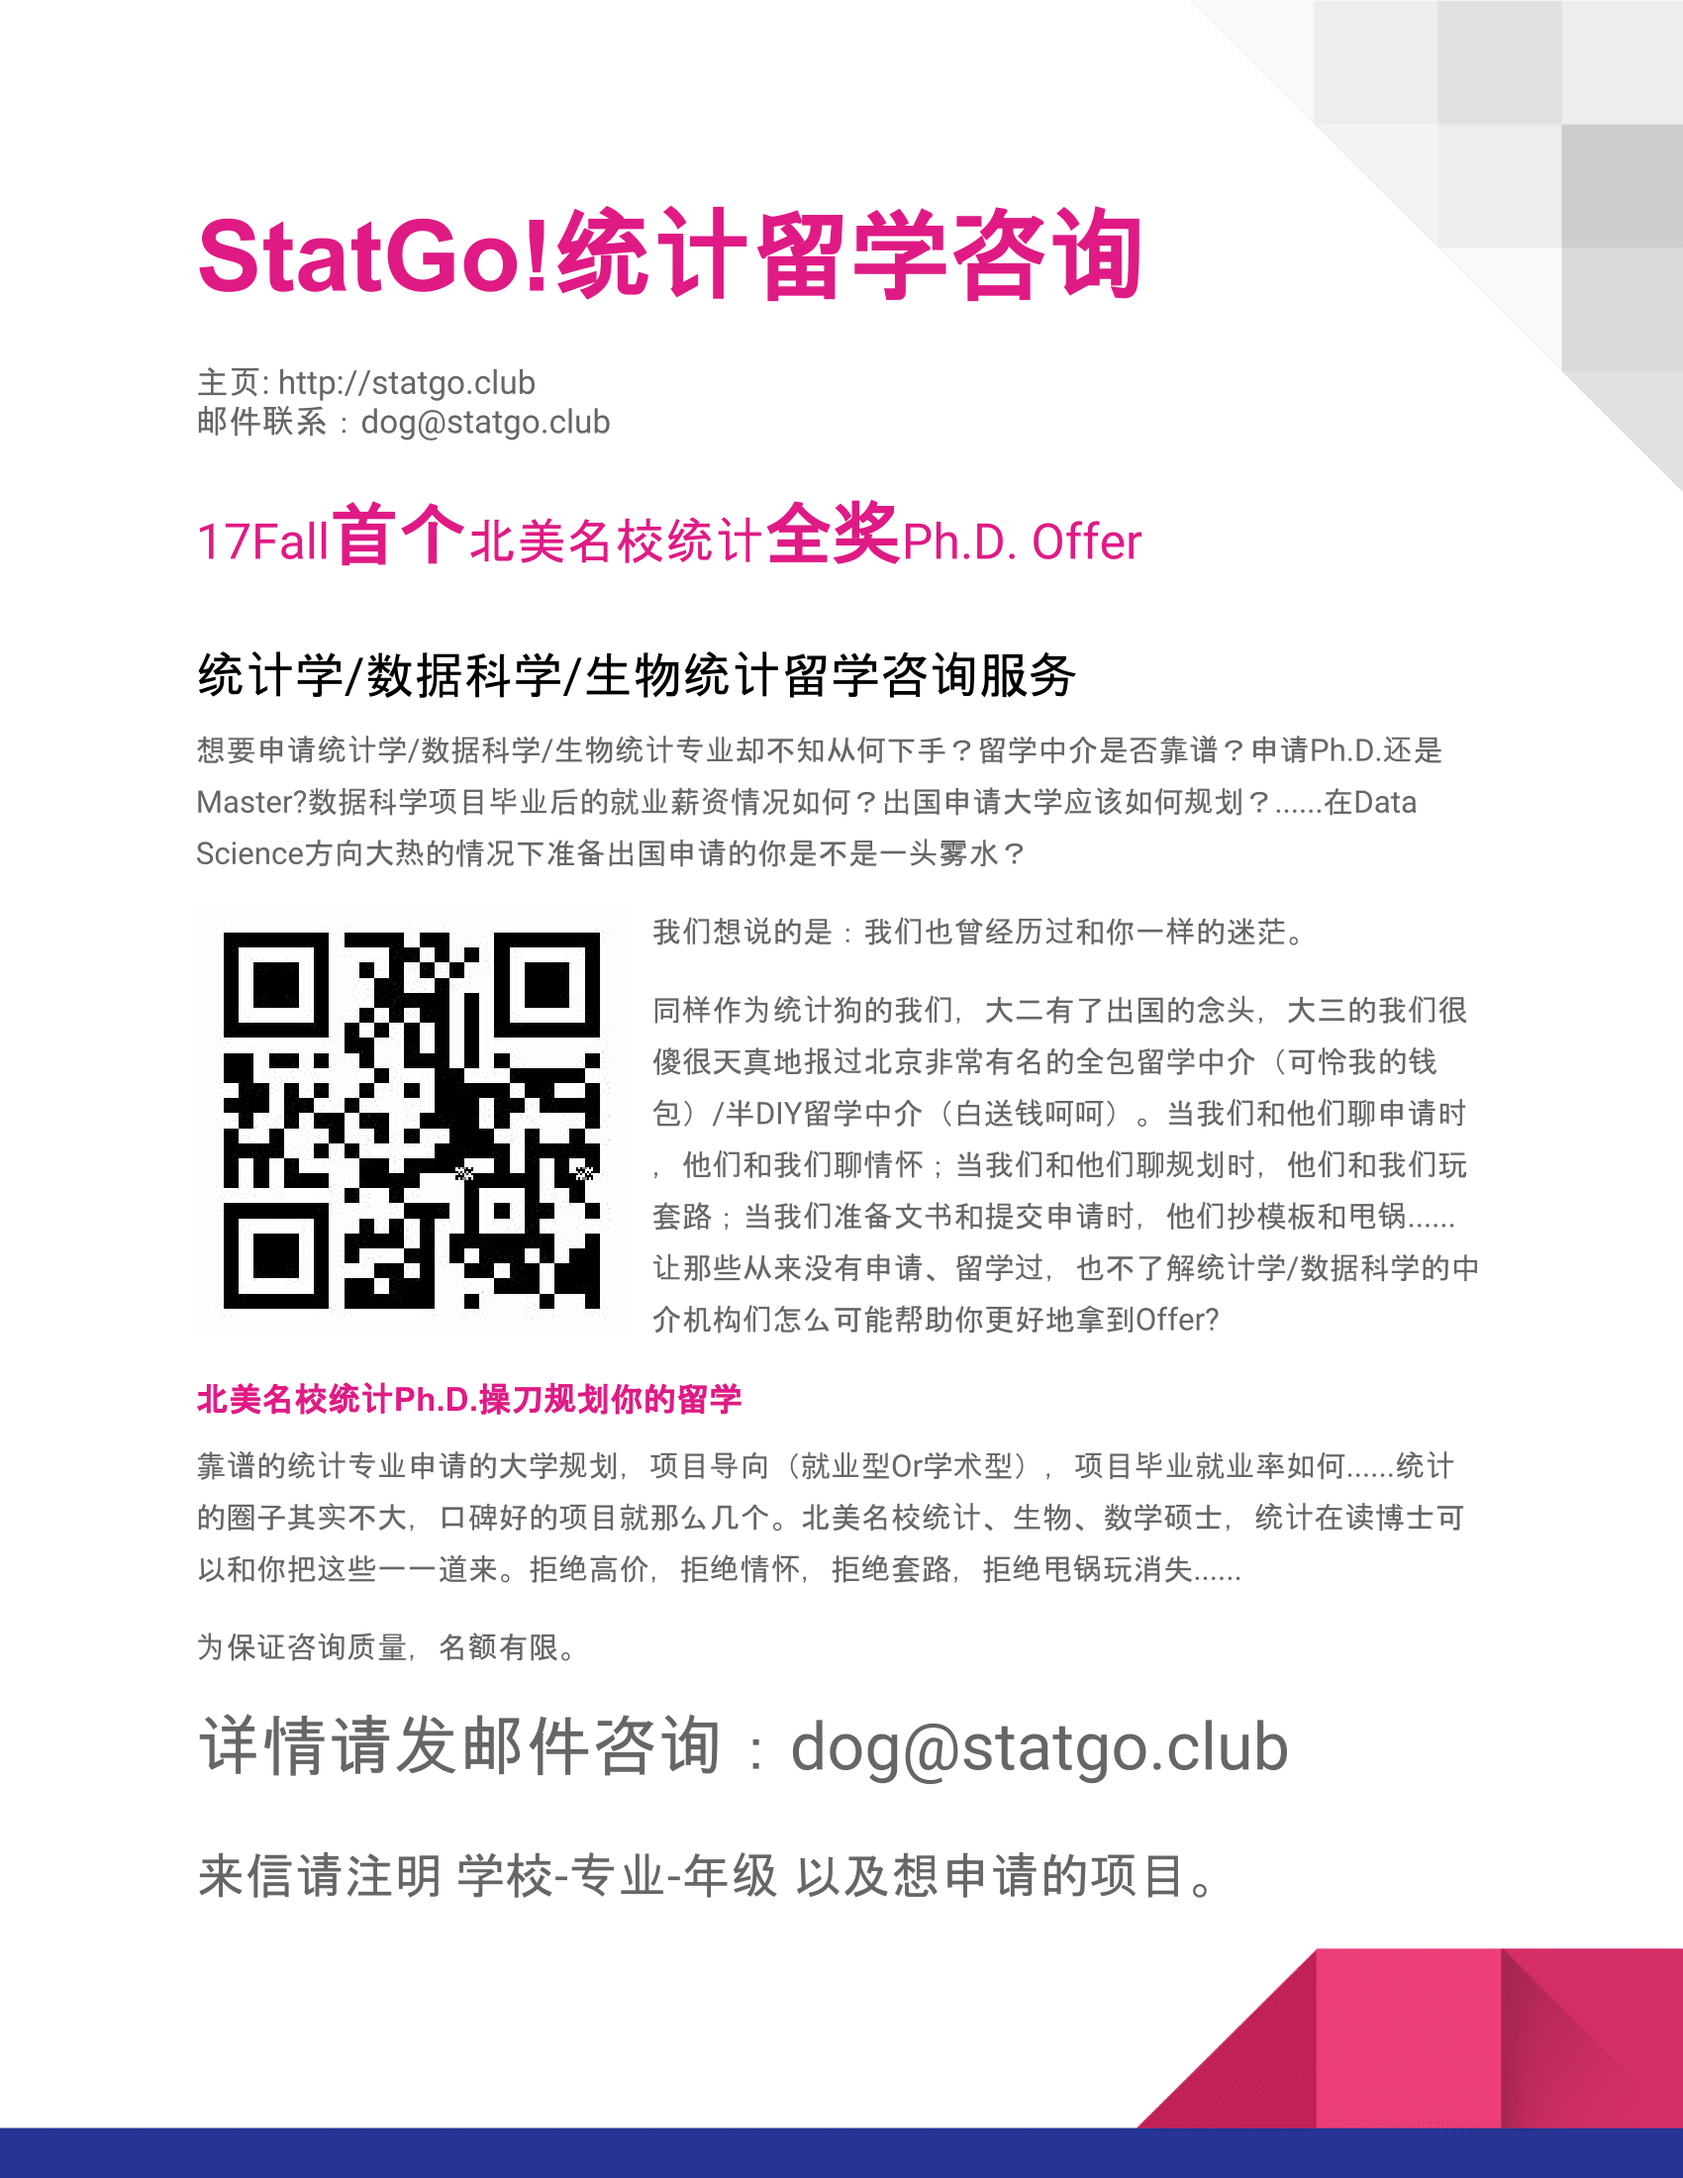
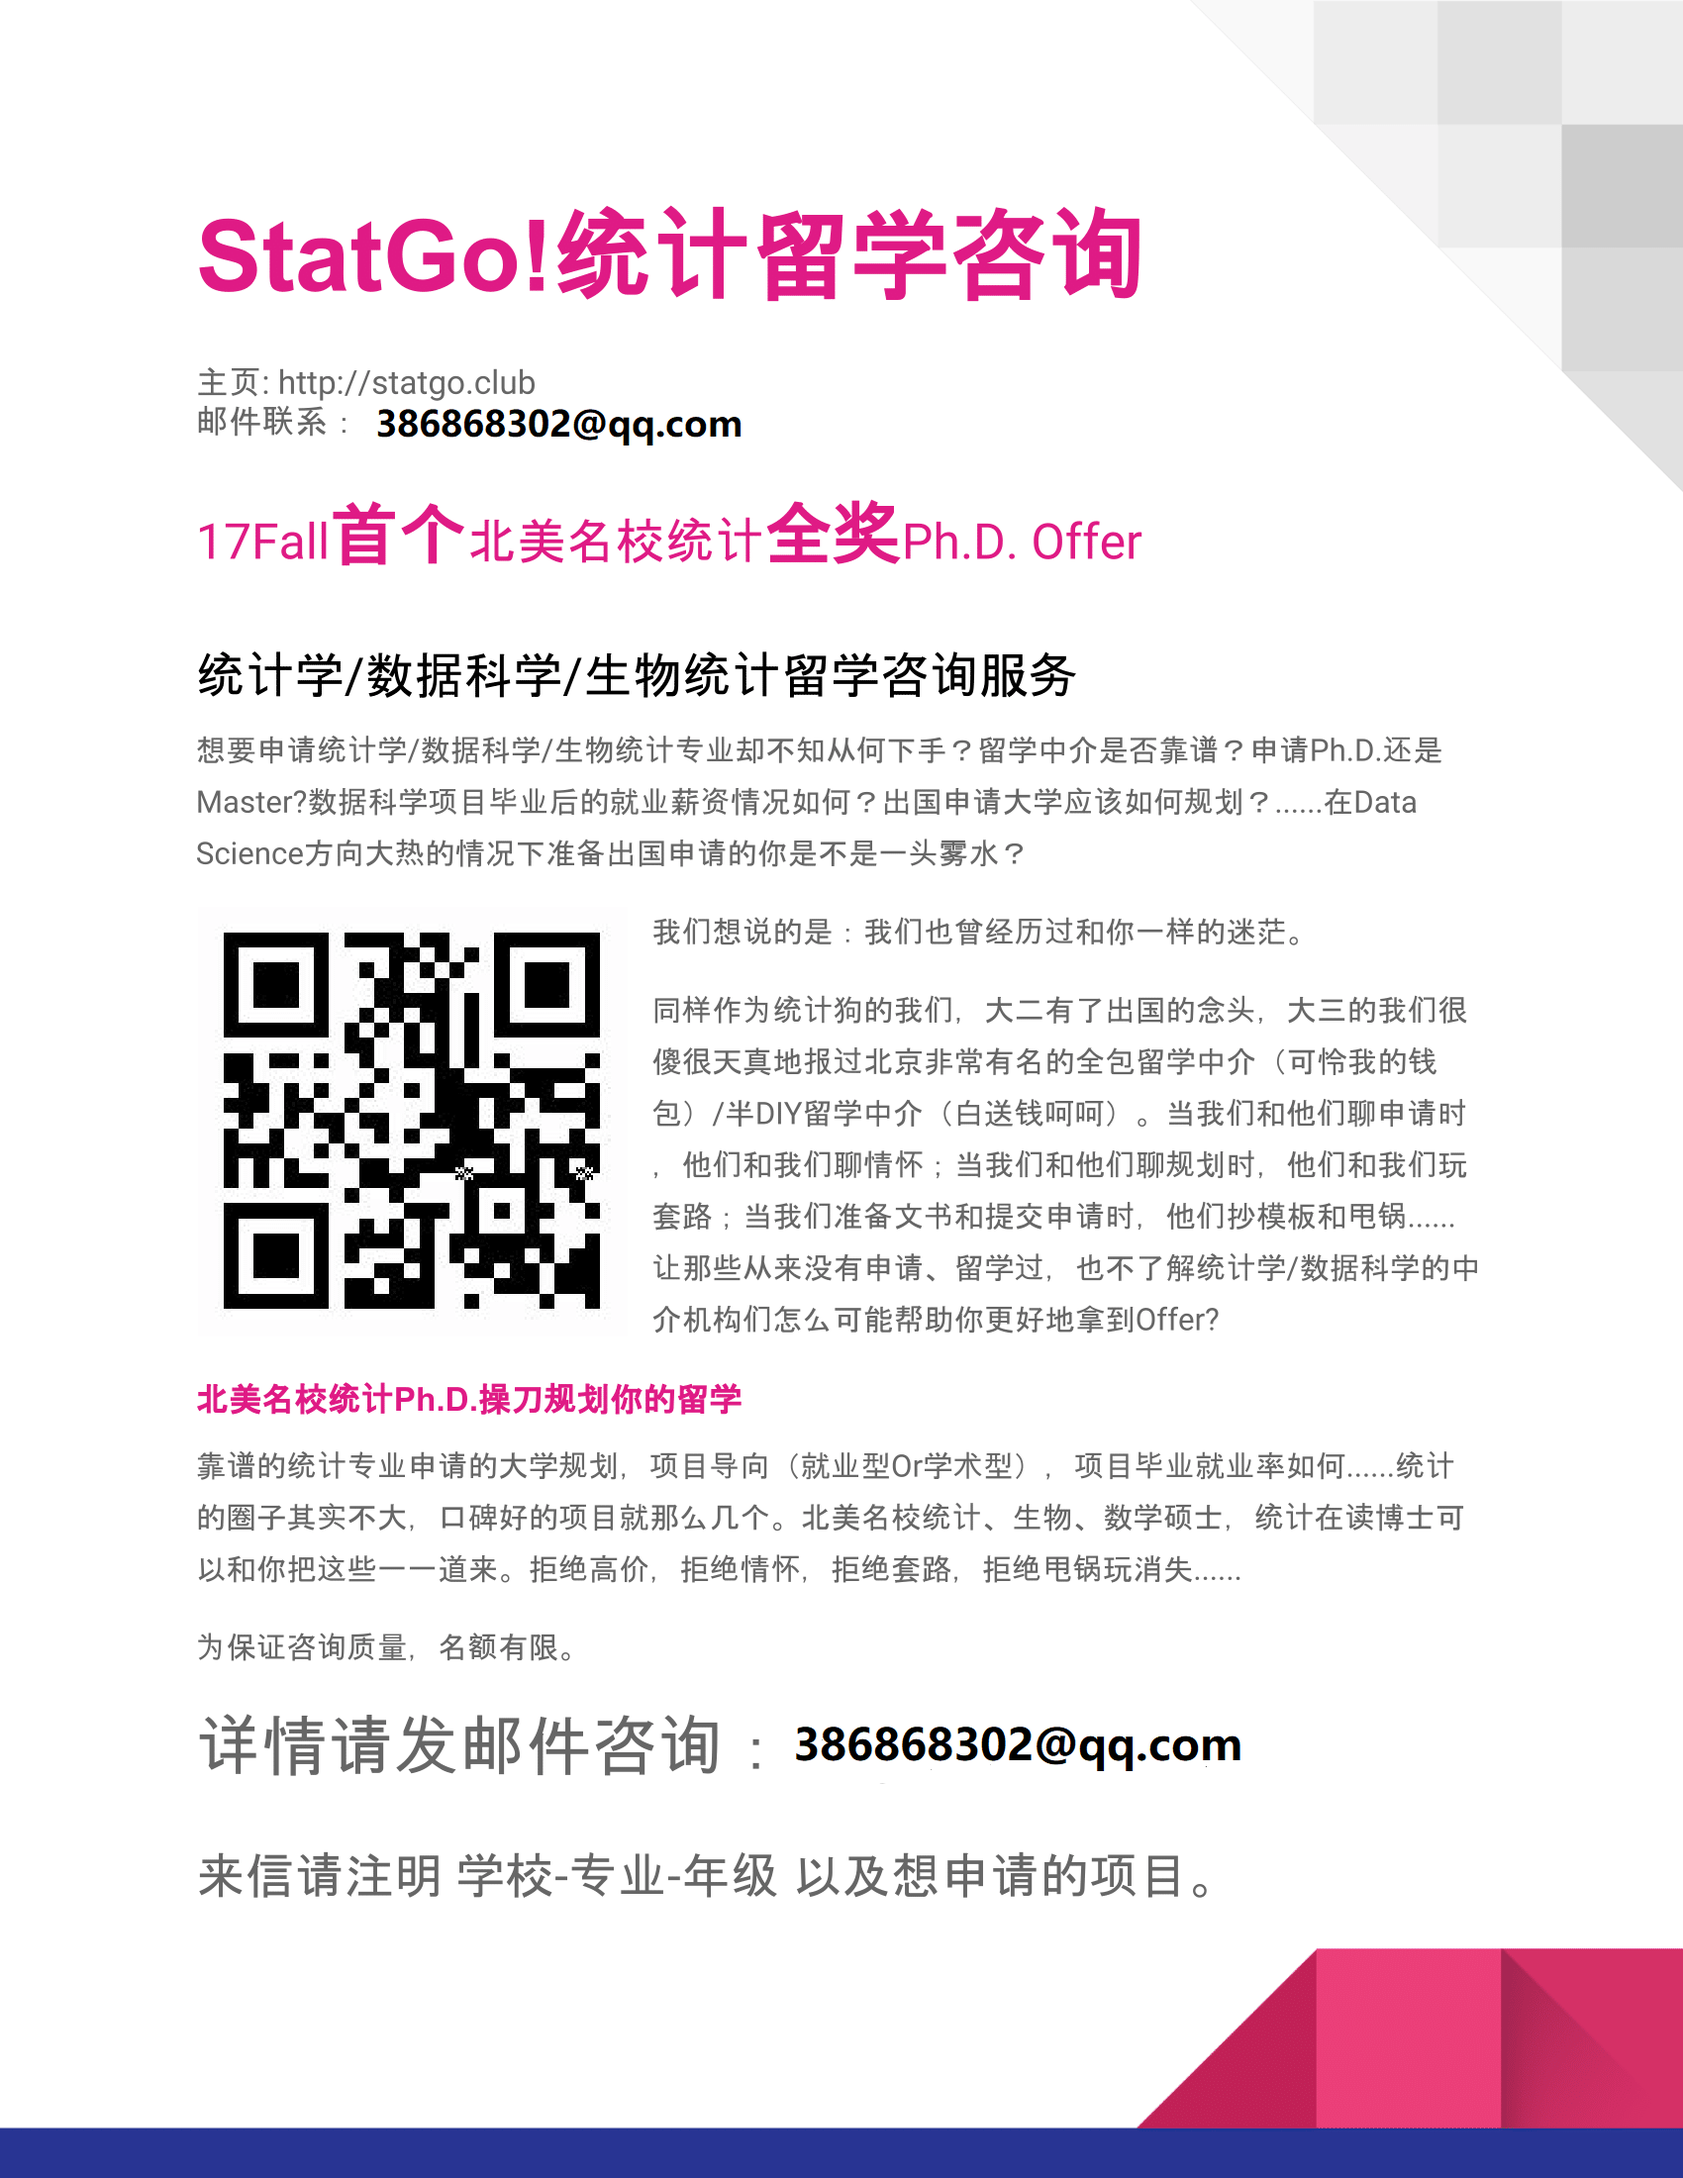
update email

Changed region(s): [[0.4676, 0.7727, 0.7482, 0.8345], [0.2182, 0.1855, 0.4365, 0.2164]]

diff --git a/about.md b/about.md
@@ -21,4 +21,4 @@ StatGo!统计学/数据科学专业出国申请专业咨询，不想让你走弯
 
 为保证咨询质量，名额有限。
 
-详情请发邮件咨询：dog@statgo.club 来信请注明 学校-专业-年级 以及想申请的项目。
+详情请发邮件咨询：386868302@qq.com 来信请注明 学校-专业-年级 以及想申请的项目。
